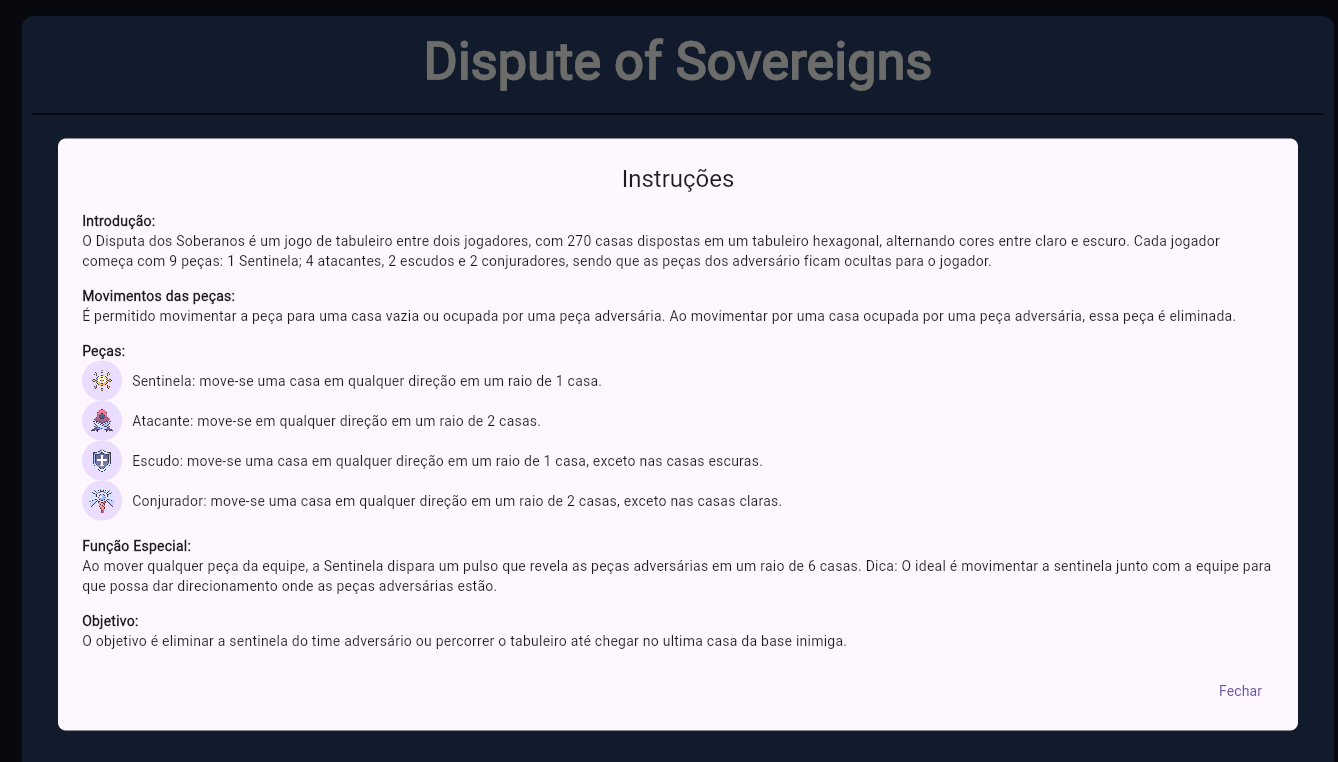
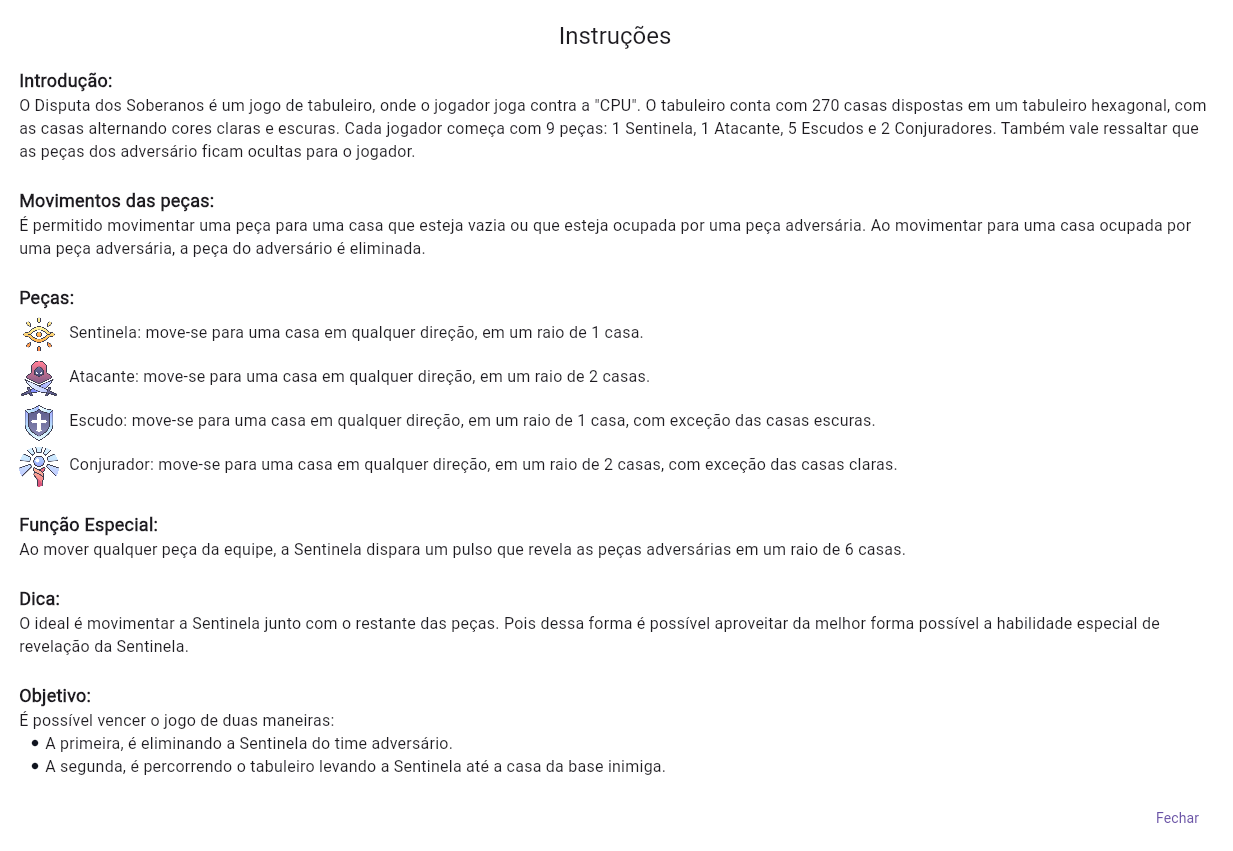
master: Finalizando README, atualizando instruções e correções de erros.

diff --git a/dispute_of_sovereigns/lib/pages/inicio.dart b/dispute_of_sovereigns/lib/pages/inicio.dart
@@ -34,7 +34,7 @@ class _HomeState extends State<Home> {
                           TextStyle(fontWeight: FontWeight.bold, fontSize: 18),
                     ),
                     const Text(
-                      "O Disputa dos Soberanos é um jogo de tabuleiro, onde o jogador joga contra a \"CPU\". O tabuleiro conta com 270 casas dispostas em um tabuleiro hexagonal, com as casas alternando cores claras e escuras. Cada jogador começa com 9 peças: 1 Sentinela, 4 Atacantes, 2 Escudos e 2 Conjuradores. Também vale ressaltar que as peças dos adversário ficam ocultas para o jogador.",
+                      "O Disputa dos Soberanos é um jogo de tabuleiro, onde o jogador joga contra a \"CPU\". O tabuleiro conta com 270 casas dispostas em um tabuleiro hexagonal, com as casas alternando cores claras e escuras. Cada jogador começa com 9 peças: 1 Sentinela, 1 Atacante, 5 Escudos e 2 Conjuradores. Também vale ressaltar que as peças dos adversário ficam ocultas para o jogador.",
                       style: TextStyle(fontSize: 16),
                     ),
                     const SizedBox(height: 25),

diff --git a/README.md b/README.md
@@ -10,7 +10,18 @@
 | 202046004  |  Caio Moreira Sulz Gonsalves |
 
 ## Sobre 
-Descreva os objetivos do seu projeto e como ele funciona. 
+O Disputa dos Soberanos é um jogo de tabuleiro, onde o jogador joga contra a \"CPU\". O tabuleiro conta com 270 casas dispostas em um tabuleiro hexagonal, com as casas alternando cores claras e escuras. Cada jogador começa com 9 peças: 1 Sentinela, 1 Atacante, 5 Escudos e 2 Conjuradores. Também vale ressaltar que as peças dos adversário ficam ocultas para o jogador.
+
+É possível vencer o jogo de duas maneiras:
+
+- A primeira, é eliminando a Sentinela do time adversário.
+
+- A segunda, é percorrendo o tabuleiro levando a Sentinela até a casa da base inimiga.
+
+A aplicação de grafos no projeto é observada nos seguintes pontos:
+- O cálculo de movimentos possíveis de uma peça no tabuleiro, que varia de peça por peça;
+- O cálculo do caminho mais curto da Sentinela até a base adversária, quando houver.
+- A habilidade especial da Sentinela, um pulso que revela o local das peças adversárias no tabuleiro em um raio de 6 casas utilizando a BFS.
 
 ## Screenshots
 
@@ -57,14 +68,59 @@ Descreva os objetivos do seu projeto e como ele funciona.
 </div>
 
 
+# Como Rodar o Build Web do Flutter Localmente
 
-Descreva os pré-requisitos para rodar o seu projeto e os comandos necessários.
+Este guia explica como rodar um build web do Flutter localmente usando Node.js. Siga as instruções abaixo para configurar o ambiente.
+
+## Pré-requisitos
+
+1. **Node.js e npm**: Certifique-se de que o [Node.js](https://nodejs.org/) está instalado. A instalação do Node.js inclui o npm (Node Package Manager), que também será necessário.
+   - Verifique a instalação rodando:
+     ```bash
+     node -v
+     npm -v
+     ```
+
+## Instruções para Rodar
+
+1. **Download**:  Faça o Download do asset web-build.zip.
+
+    Segue o link da [release](https://github.com/projeto-de-algoritmos-2024/Grafos1_Dispute-of-Sovereigns/releases), que também está dísponivel no github. 
+
+<br>
+
+2. **Extrair Arquivo ZIP**: Extraia o arquivo ZIP.
+
+<br>
+
+3. **Abra o Terminal**: Navegue até a pasta `web-build/web`, onde o arquivo `index.html` e outros arquivos de build estão localizados.
+
+<br>
+
+4. **Inicie o Servidor**:
+   - Com o terminal ainda na pasta `web-build/web`, execute o comando:
+     ```bash
+     npx serve .
+     ```
+   - Isso inicia um servidor local e informa a porta onde foi aberto.
+
+5. **Acesse o App no Navegador**:
+   - Segurando a tecla CRTL, clique com o botão esquerdo no link do localhost.
+
 
 ## Uso 
-Explique como usar seu projeto caso haja algum passo a passo após o comando de execução.
+- Tela inicial possui os botões Jogar e Instruções.
+- Leia as Instruções
+
+Na seção Jogar, existem duas telas principais: 
+- Rota: Apresenta o caminho da Sentinela até a base adversária e as posições das peças.
+- Partida: Onde você efetivamente irá jogar.
 
 ## Outros 
-Quaisquer outras informações sobre seu projeto podem ser descritas abaixo.
+Os códigos principais que implementam a lógica do projeto se encontram no diretório `dispute_of_sovereigns/lib`:
+- No diretório `dispute_of_sovereigns/lib/pages` se encontra códigos relacionados ao front-end.
+- No diretório `dispute_of_sovereigns/lib/models` se encontra códigos relacionados aos Grafos.
+- No diretório `dispute_of_sovereigns/lib/helpers` se encontra códigos relacionados a ligação entre front-end e Grafos.
 
 
 
